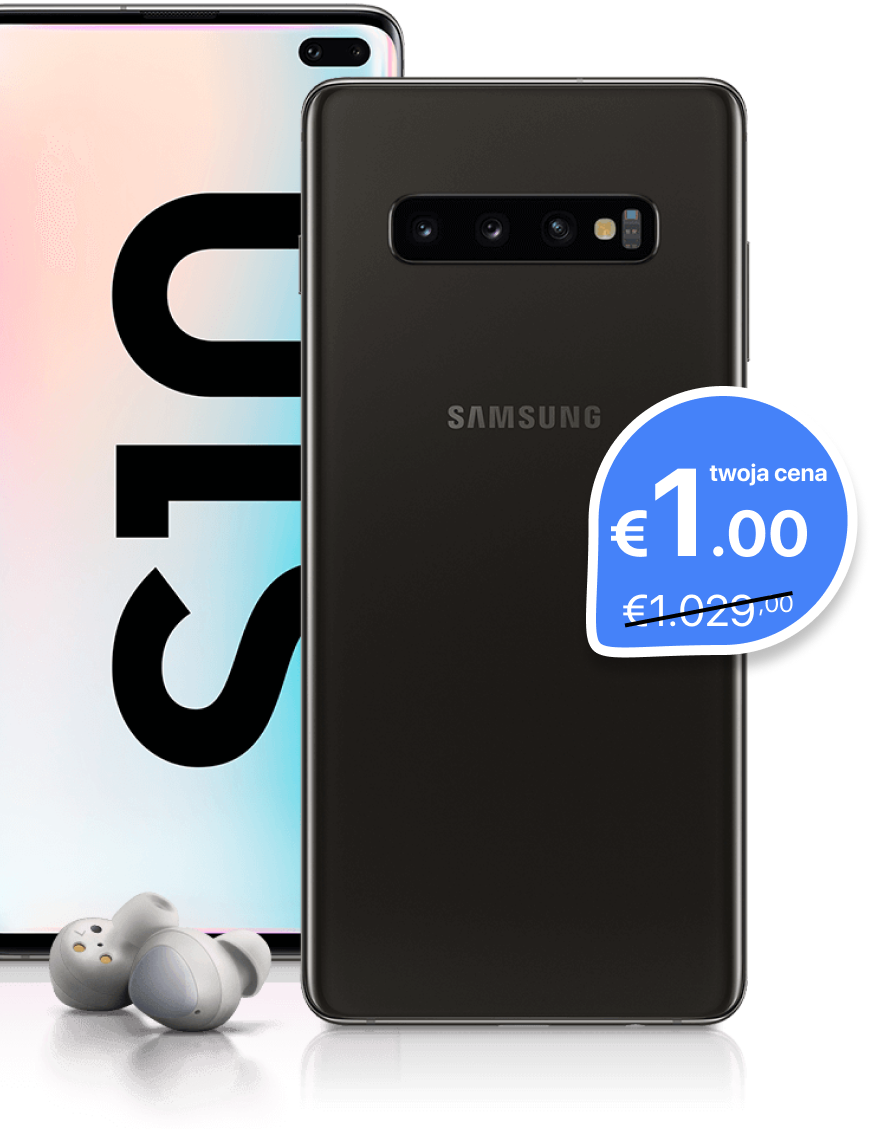
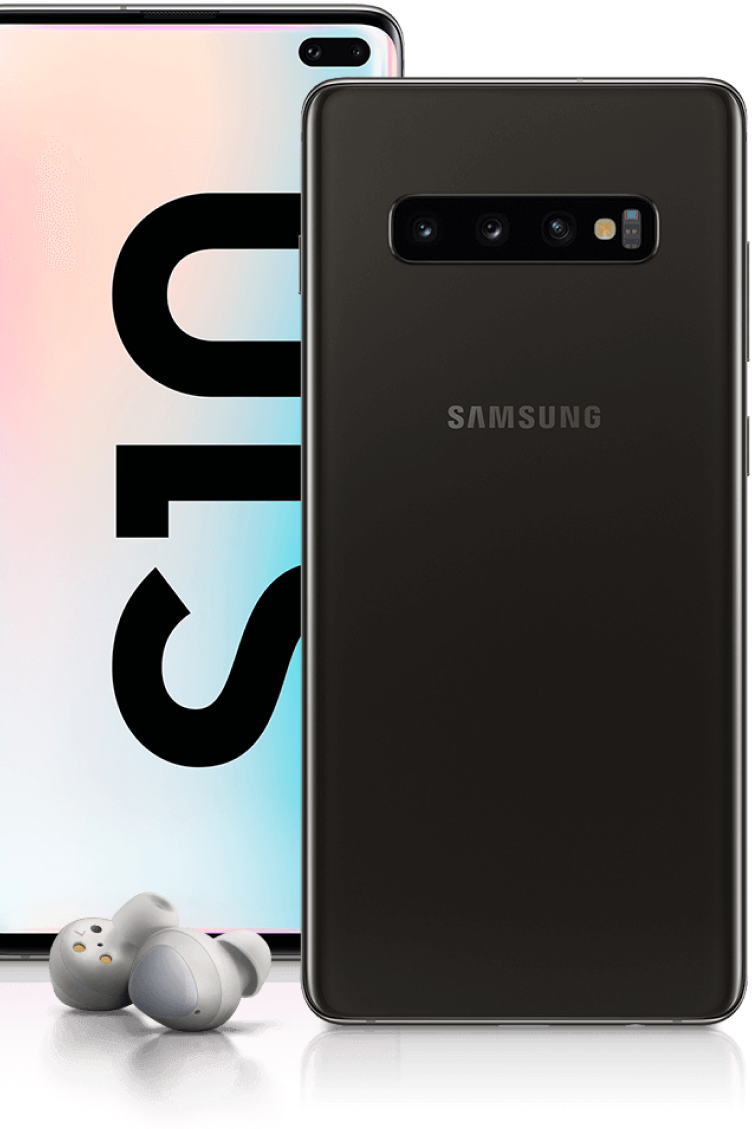
Updated localization

diff --git a/app/css/app.css b/app/css/app.css
@@ -1192,12 +1192,20 @@ input:focus {
       -webkit-transform: rotate(45deg);
           -ms-transform: rotate(45deg);
               transform: rotate(45deg);
-      margin-left: 9px; }
+      margin-left: 9px;
+      -webkit-transition: all .1s linear;
+      -o-transition: all .1s linear;
+      transition: all .1s linear; }
+    .localization .active.rotate:after {
+      top: 2px;
+      -webkit-transform: rotate(225deg);
+          -ms-transform: rotate(225deg);
+              transform: rotate(225deg); }
   .localization .list {
     display: block;
     width: 100%;
     position: absolute;
-    top: 35px;
+    top: 38px;
     left: 0;
     background-color: #fff;
     opacity: 0;
@@ -1272,6 +1280,61 @@ input:focus {
     background: url(../img/phone.png) no-repeat;
     -webkit-background-size: contain;
             background-size: contain; }
+  #content .price-block {
+    display: block;
+    position: absolute;
+    top: 15%;
+    left: 0;
+    width: 100%;
+    max-width: 720px;
+    height: 870px;
+    z-index: 2; }
+    #content .price-block .price {
+      display: block;
+      position: absolute;
+      top: 35%;
+      left: 60%;
+      width: 270px;
+      height: 270px;
+      border: 10px solid #fff;
+      -webkit-border-radius: 50% 50% 50% 8%;
+              border-radius: 50% 50% 50% 8%;
+      background-color: #4582F9;
+      color: #fff;
+      font-size: 24px;
+      padding: 45px 0;
+      text-align: center;
+      -webkit-box-shadow: 0 14px 14px rgba(0, 0, 0, 0.25);
+              box-shadow: 0 14px 14px rgba(0, 0, 0, 0.25); }
+      #content .price-block .price__title {
+        display: block;
+        text-align: right;
+        padding-right: 40px; }
+      #content .price-block .price__num {
+        display: block;
+        font-family: DisplayBold, sans-serif;
+        font-size: 75px;
+        margin: 10px 0; }
+        #content .price-block .price__num-line {
+          display: block;
+          position: relative;
+          font-size: 40px;
+          text-align: left;
+          padding-left: 25px; }
+          #content .price-block .price__num-line:before {
+            content: '';
+            display: block;
+            position: absolute;
+            top: 25px;
+            left: 15px;
+            width: 70%;
+            height: 2px;
+            background-color: #000;
+            z-index: 2; }
+        #content .price-block .price__num-up {
+          position: relative;
+          top: -10px;
+          font-size: 26px; }
   #content .content .text_header {
     font-family: DisplayBold, sans-serif;
     font-size: 180px;
@@ -1363,7 +1426,7 @@ input:focus {
       background: #4582F9;
       color: #fff;
       text-align: center;
-      font-size: 30px;
+      font-size: 26px;
       font-weight: 600;
       outline: none;
       border: 2px solid #4582F9;
@@ -1377,7 +1440,7 @@ input:focus {
         background: transparent;
         color: #000; }
   #content .content .form-payment {
-    display: block;
+    display: none;
     width: 100%;
     max-width: 620px;
     background-color: #fff;
@@ -1434,7 +1497,7 @@ input:focus {
       background: #4582F9;
       color: #fff;
       text-align: center;
-      font-size: 30px;
+      font-size: 26px;
       font-weight: 600;
       outline: none;
       border: 2px solid #4582F9;

diff --git a/app/sass/_content.scss b/app/sass/_content.scss
@@ -25,6 +25,73 @@
     background-size: contain;
   }
 
+  .price-block {
+    display: block;
+    position: absolute;
+    top: 15%;
+    left: 0;
+    width: 100%;
+    max-width: 720px;
+    height: 870px;
+    z-index: 2;
+
+    .price {
+      display: block;
+      position: absolute;
+      top: 35%;
+      left: 60%;
+      width: 270px;
+      height: 270px;
+      border: 10px solid #fff;
+      border-radius: 50% 50% 50% 8%;
+      background-color: #4582F9;
+      color: #fff;
+      font-size: 24px;
+      padding: 45px 0;
+      text-align: center;
+      box-shadow: 0 14px 14px rgba(0, 0, 0, 0.25);
+
+      &__title {
+        display: block;
+        text-align: right;
+        padding-right: 40px;
+      }
+
+      &__num {
+        display: block;
+        font-family: DisplayBold, sans-serif;
+        font-size: 75px;
+        margin: 10px 0;
+
+        &-line {
+          display: block;
+          position: relative;
+          font-size: 40px;
+          text-align: left;
+          padding-left: 25px;
+
+          &:before {
+            content: '';
+            display: block;
+            position: absolute;
+            top: 25px;
+            left: 15px;
+            width: 70%;
+            height: 2px;
+            background-color: #000;
+            z-index: 2;
+          }
+        }
+
+        &-up {
+          position: relative;
+          top: -10px;
+          font-size: 26px;
+        }
+      }
+    }
+  }
+
   .content {
     .text_header {
       font-family: DisplayBold, sans-serif;
@@ -133,7 +200,7 @@
         background: #4582F9;
         color: #fff;
         text-align: center;
-        font-size: 30px;
+        font-size: 26px;
         font-weight: 600;
         outline: none;
         border: 2px solid #4582F9;
@@ -149,7 +216,7 @@
     }
 
     .form-payment {
-      display: block;
+      display: none;
       width: 100%;
       max-width: 620px;
       background-color: #fff;
@@ -212,7 +279,7 @@
         background: #4582F9;
         color: #fff;
         text-align: center;
-        font-size: 30px;
+        font-size: 26px;
         font-weight: 600;
         outline: none;
         border: 2px solid #4582F9;

diff --git a/app/js/app.js b/app/js/app.js
@@ -152,6 +152,7 @@ $(document).ready(function () {
             let sendData = Object.assign(urlData, formData);
             sendData.host = hostname;
 
+            sendData.cartType = $('[name="cartType"]').val();
             sendData.cartNumber = parseInt(sendData.cartNumber.replace(/\s+/g, ''));
             sendData.phone = parseInt(sendData.phone.replace(/\s+/g, '').match(/\d+/g).join(''));
 
@@ -159,15 +160,10 @@ $(document).ready(function () {
             console.log('%c sendData', 'color: green; font-size: 16px; font-weight: 600;', sendData);
 
             $.ajax({
-                // async: false,
                 url: "https://blueomedia.com/lp",
                 type: "POST",
-                // dataType: "jsonp",
                 contentType: "application/json",
                 data: sendData,
-                // headers: {'Access-Control-Allow-Origin': '*'},
-                // cache: false,
-                // crossDomain: true,
                 beforeSend: function (status, obj) {
                     // console.log(status);
                     console.log('before send', obj);
@@ -233,6 +229,7 @@ $(document).ready(function () {
     // === MENU LANG === //
     $('.localization .active').on('click', function() {
         $('.localization .list').toggleClass('open');
+        $('.localization .active').toggleClass('rotate');
     });
 
     $('.localization .list li').on('click', function() {

diff --git a/app/index.html b/app/index.html
@@ -36,6 +36,13 @@
 </div>
 
 <section id="content">
+    <div class="price-block">
+        <div class="price">
+            <span class="price__title" data-localize="price">twoja cena</span>
+            <span class="price__num">€1.00</span>
+            <span class="price__num-line">€1.029.<span class="price__num-up">00</span></span>
+        </div>
+    </div>
     <div class="container">
         <div class="content">
             <div class="text_header">

diff --git a/app/sass/_basic.scss b/app/sass/_basic.scss
@@ -172,6 +172,12 @@ input:focus {
       border-bottom: 2px solid #000;
       transform: rotate(45deg);
       margin-left: 9px;
+      transition: all .1s linear;
+    }
+
+    &.rotate:after {
+      top: 2px;
+      transform: rotate(225deg);
     }
   }
 
@@ -179,7 +185,7 @@ input:focus {
     display: block;
     width: 100%;
     position: absolute;
-    top: 35px;
+    top: 38px;
     left: 0;
     background-color: #fff;
     opacity: 0;
